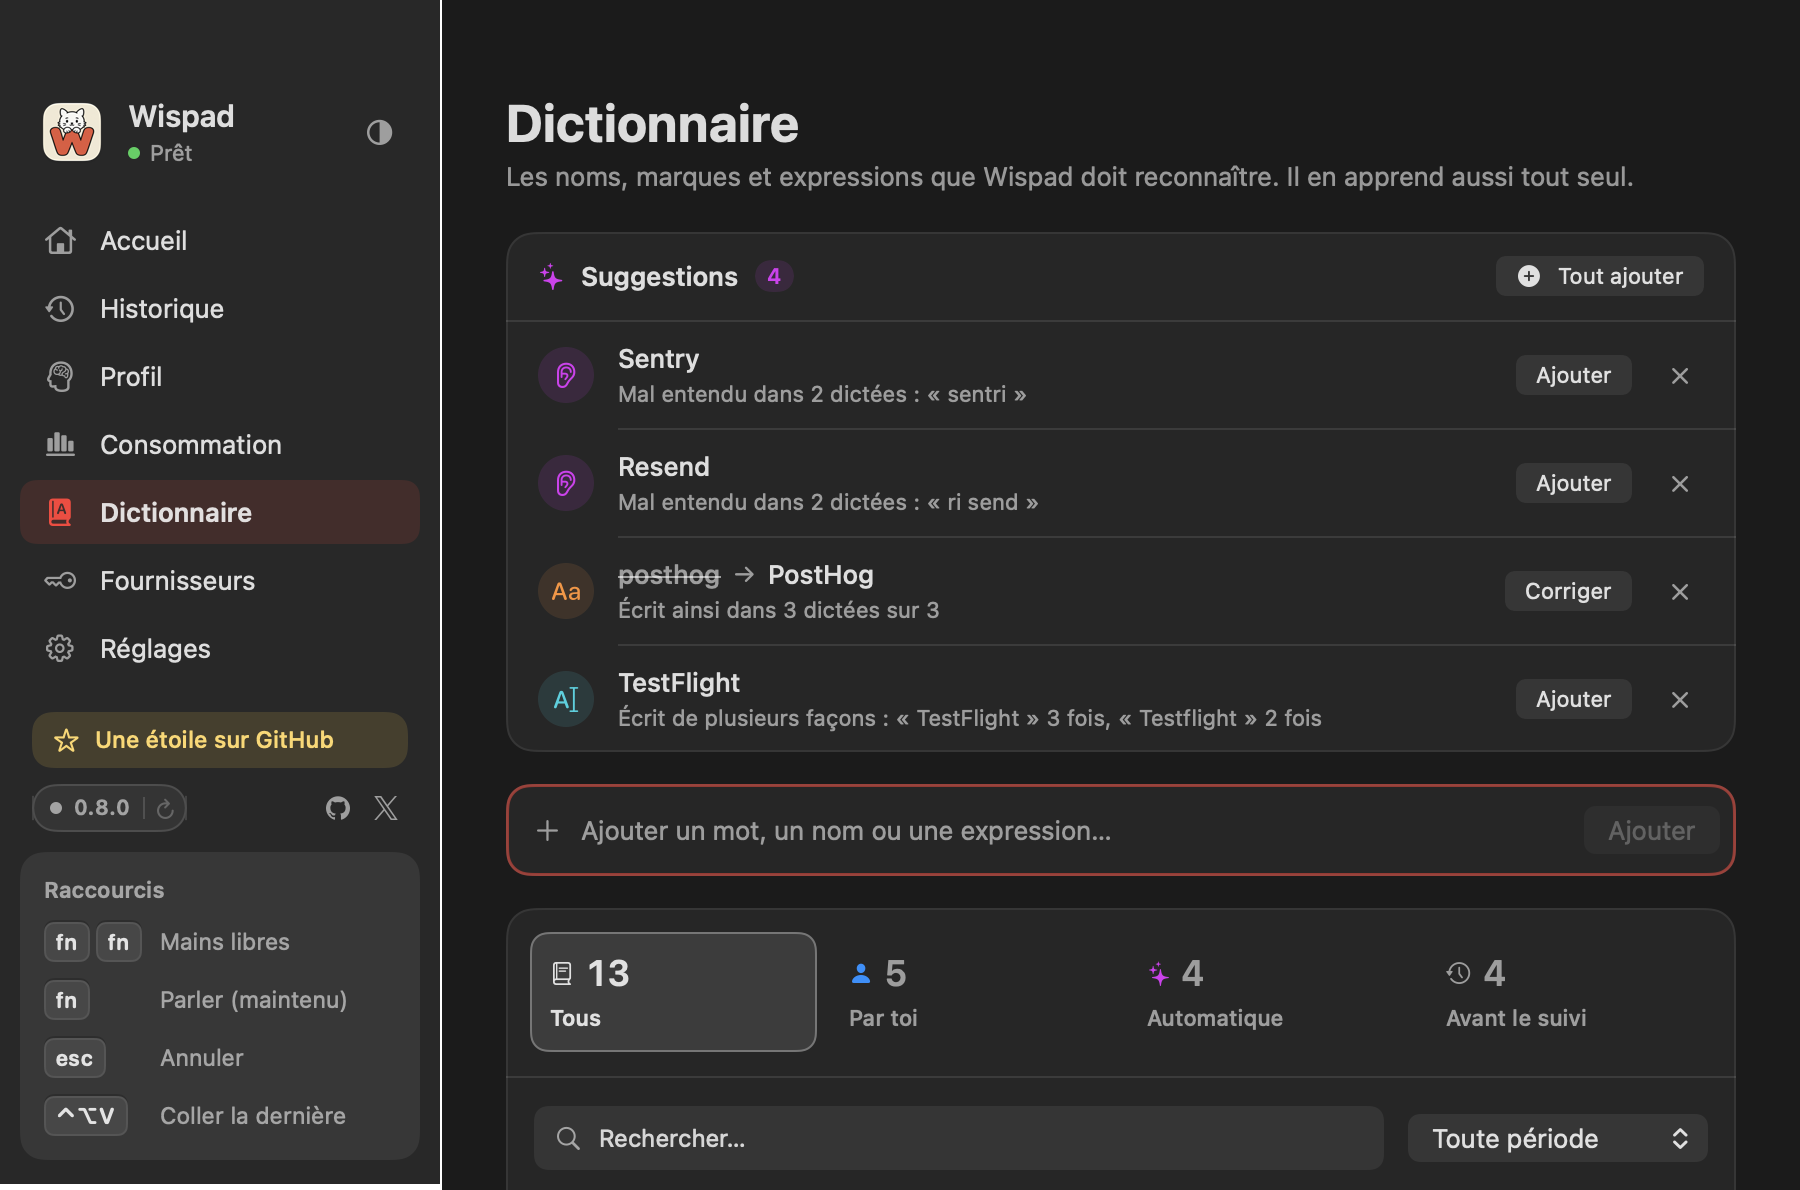
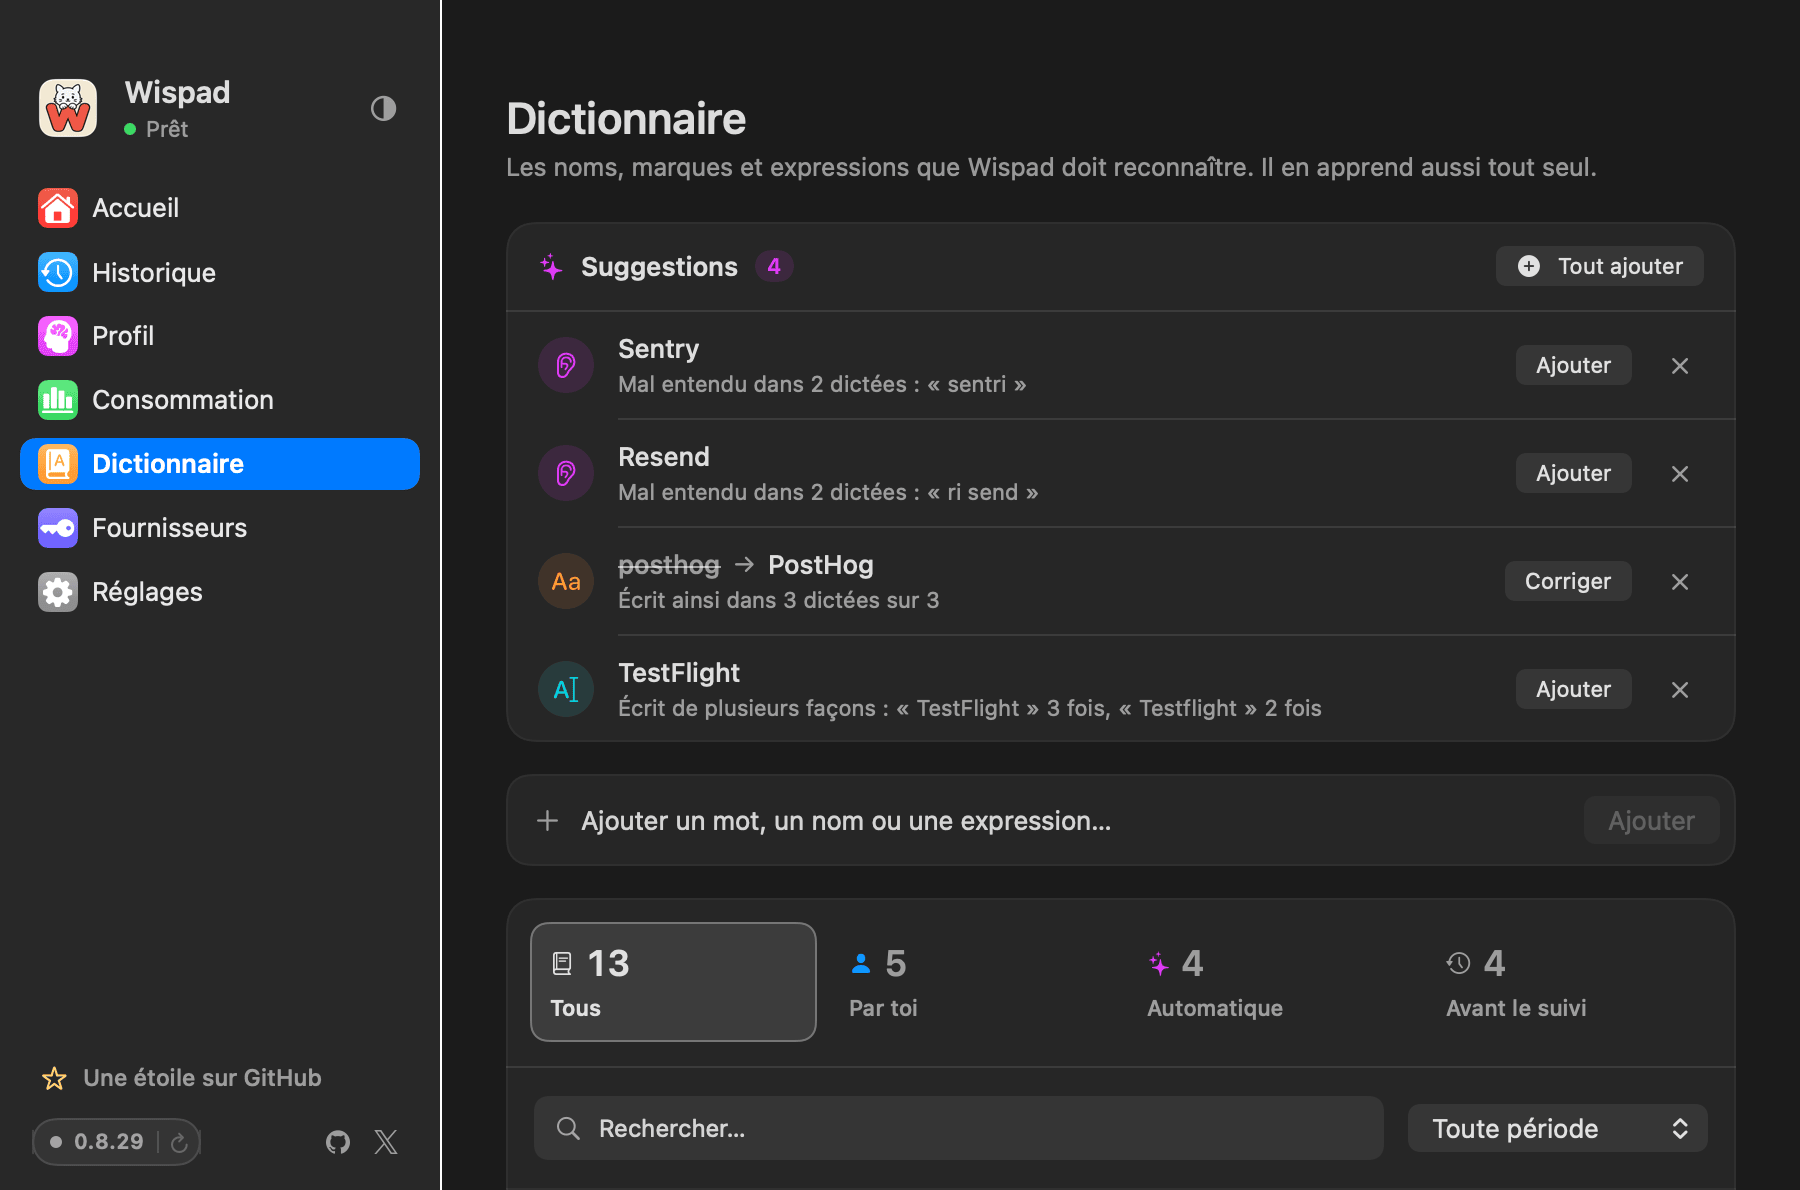
Met à jour le README et ses captures (0.8.30)

diff --git a/Sources/Wispad/WindowViews.swift b/Sources/Wispad/WindowViews.swift
@@ -141,7 +141,9 @@ struct Sidebar: View {
 
     var body: some View {
         List(selection: Binding(
-            get: { model.selectedSection },
+            // Captures hors écran : la sélection native, faite d'un matériau d'AppKit, s'y dessine en noir ; la rangée
+            // dessine alors la même sélection d'accent elle-même.
+            get: { sidebarDrawsSelection ? nil : model.selectedSection },
             set: { section in if let section { model.selectedSection = section } }
         )) {
             ForEach(AppSection.allCases) { section in
@@ -178,11 +180,14 @@ struct SidebarRow: View {
     var selected: Bool
 
     private var highlighted: Bool { !selected && (hovering || (previewHover && section == .history)) }
+    private var drawnSelection: Bool { selected && sidebarDrawsSelection }
 
     var body: some View {
         HStack(spacing: 0) {
             Label {
                 Text(section.title)
+                    .fontWeight(drawnSelection ? .semibold : nil)
+                    .foregroundStyle(drawnSelection ? Color.white : Color.primary)
             } icon: {
                 SidebarIcon(section: section)
             }
@@ -196,7 +201,8 @@ struct SidebarRow: View {
         .background {
             // Le fond déborde légèrement le contenu natif sans modifier sa taille ni recouvrir la sélection.
             RoundedRectangle(cornerRadius: 8, style: .continuous)
-                .fill(Color.primary.opacity(highlighted ? (contrast == .increased ? 0.20 : 0.11) : 0))
+                .fill(drawnSelection ? Theme.accent
+                      : Color.primary.opacity(highlighted ? (contrast == .increased ? 0.20 : 0.11) : 0))
                 .padding(.horizontal, -6)
                 .padding(.vertical, -3)
                 .allowsHitTesting(false)
@@ -206,6 +212,13 @@ struct SidebarRow: View {
         .accessibilityElement(children: .combine)
     }
 }
+
+#if DEBUG
+/// Aperçus et captures hors écran de design-preview.
+let sidebarDrawsSelection = CommandLine.arguments.contains("--design-preview")
+#else
+let sidebarDrawsSelection = false
+#endif
 
 struct SidebarIcon: View {
     var section: AppSection

diff --git a/Sources/Wispad/HistoryViews.swift b/Sources/Wispad/HistoryViews.swift
@@ -385,10 +385,6 @@ struct HistoryRow: View {
 
     private func actionBar(_ item: HistoryRowItem, width: CGFloat, visible: Bool, selected: Bool) -> some View {
         HStack(spacing: 2) {
-            if let onDetails {
-                HoverIconButton(symbol: "info.circle", help: String(localized: "Détails de la dictée"), action: onDetails)
-                    .accessibilityIdentifier("dictation-details-\(record.id)")
-            }
             Color.clear.frame(width: width, height: 26)
                 .overlay(alignment: .trailing) {
                     if visible {
@@ -411,6 +407,10 @@ struct HistoryRow: View {
                         }
                     }
                 }
+            if let onDetails {
+                HoverIconButton(symbol: "info.circle", help: String(localized: "Détails de la dictée"), action: onDetails)
+                    .accessibilityIdentifier("dictation-details-\(record.id)")
+            }
         }
     }
 

diff --git a/README.md b/README.md
@@ -84,7 +84,7 @@ curseur : messagerie, e-mail, éditeur de code, terminal, navigateur.
   <tr>
     <td width="50%" align="center">
       <img src="docs/images/ecran-history.png" alt="Écran Historique : dictées classées par jour avec l'app, le nombre de mots et le statut">
-      <br><b>Historique</b> · tout est gardé sur ton Mac, cherchable ; une dictée ratée se retranscrit.
+      <br><b>Historique</b> · tout est gardé sur ton Mac, cherchable ; une longue dictée s'ouvre en entier au survol, une dictée ratée se retranscrit.
     </td>
     <td width="50%" align="center">
       <img src="docs/images/ecran-usage.png" alt="Écran Consommation : dépense des 7 derniers jours, part de chaque fournisseur, coût par mois face aux abonnements">
@@ -103,7 +103,7 @@ curseur : messagerie, e-mail, éditeur de code, terminal, navigateur.
   </tr>
   <tr>
     <td colspan="2" align="center">
-      <img src="docs/images/ecran-profile.png" alt="Profil, carte Ton cerveau : sujets de démonstration (Code, Travail, Voyages, Cuisine) reliés en 3D, avec un portrait écrit et le coût de l'analyse" width="70%">
+      <img src="docs/images/ecran-profile.png" alt="Profil, carte Ton cerveau : sujets de démonstration (Code, Travail, Voyages, Cuisine) reliés en 3D, avec un portrait écrit et le coût de l'analyse" width="72%">
       <br><b>Profil</b> · tes chiffres, ton rythme, tes mots et tes tics ; en option, ton cerveau en 3D, par mots ou par sujets lus par une IA, avec le coût annoncé avant.
     </td>
   </tr>
@@ -158,9 +158,10 @@ curseur : messagerie, e-mail, éditeur de code, terminal, navigateur.
   le spectre passe au vert pendant le relais.
 - **Rien n'est perdu** : sans connexion ou en cas d'erreur, l'audio reste dans l'historique pour **Retranscrire** ;
   un collage raté laisse le texte prêt à **Copier**.
-- **La bulle ne cache pas ton champ** : ses messages se placent au-dessus de la zone où tu écris, et chaque bulle se
-  place à la main dans Réglages › Bulle, en noir profond, en verre transparent (le fond reste net) ou en verre dépoli
-  (Liquid Glass).
+- **Une bulle discrète** : les messages apparaissent à l'endroit du spectre, en cartes compactes de Liquid Glass ;
+  la bulle se place à la main dans Réglages › Bulle, en noir profond, en verre transparent ou en verre dépoli.
+- **Pas de champ sélectionné ?** Wispad écrit dans le champ vide évident de la fenêtre active ; sinon, le texte reste
+  prêt à **Coller** ou **Copier** (désactivable dans Réglages › Général).
 - **Contexte facultatif** : Wispad peut lire la fenêtre active pour bien écrire les noms d'une conversation
   (désactivé par défaut, jamais enregistré).
 
